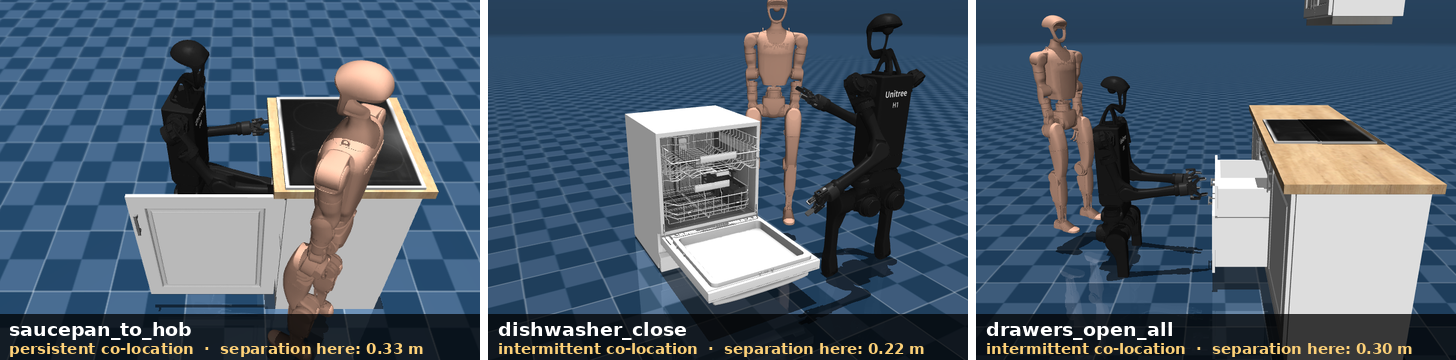
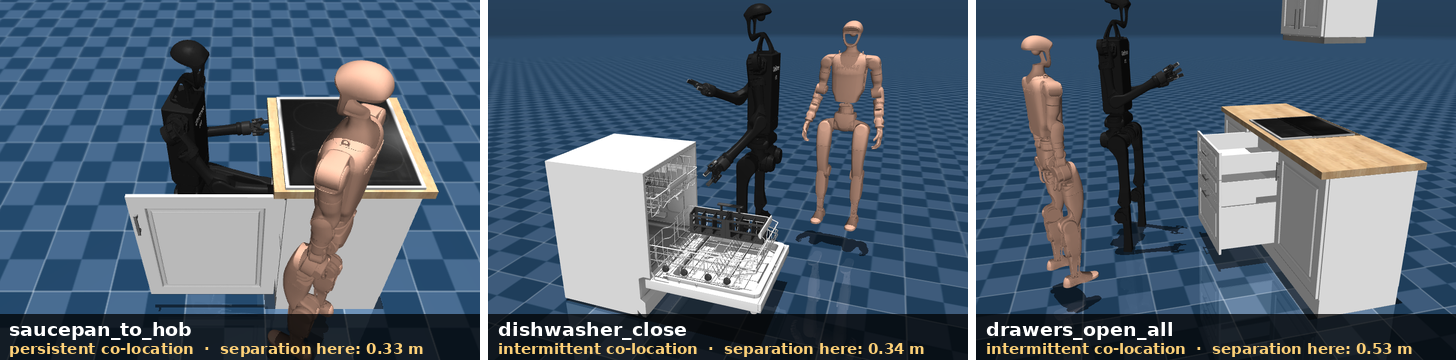
fix floor-sunk H1 in regenerated task_suite panels
The replayed demos crouch the floating-base pelvis to z 0.45-0.62 and
the H1 legs don't articulate, so the first pass rendered the robot
0.4-0.55 m into the floor. Dishwasher: switch to demo 35 (manipulation
at pelvis z~0.82, feet occluded by the open door; sep 0.34 m).
Drawers: new --pad-stand-rise replay mode stands the robot back up
post-success via delta-z actions (z 0.96, all three drawers still open;
sep 0.53 m). Provenance docs + JSON updated.

Changed region(s): [[0.3091, 0.0, 1.0, 1.0], [0.8654, 0.0, 0.989, 0.1222], [0.5872, 0.9472, 0.6181, 0.9778]]

diff --git a/scripts/remake_task_suite_panels.py b/scripts/remake_task_suite_panels.py
@@ -219,7 +219,15 @@ def _restore_state(env, st: dict) -> None:
 
 def replay_episode(env, holder, demo: dict, scen_seed: int, out_dir: Path,
                    capture_every: int, pad_seconds: float,
-                   width: int, height: int, task_key: str) -> dict:
+                   width: int, height: int, task_key: str,
+                   pad_stand_rise: float = 0.0) -> dict:
+    """Replay demo actions; optionally stand the robot back up during pad.
+
+    The floating-base entries (action[0:4]) are per-step deltas even in
+    absolute action mode, so a +z delta during the pad phase rises the
+    pelvis through normal env.step physics (no state surgery). Arm and
+    gripper entries hold the demo's final absolute targets.
+    """
     import imageio.v2 as imageio
 
     holder.value = scen_seed
@@ -240,9 +248,18 @@ def replay_episode(env, holder, demo: dict, scen_seed: int, out_dir: Path,
     n_pad = int(pad_seconds * CONTROL_HZ)
     total = len(actions) + n_pad
 
+    rise_per_step = 0.0005  # 0.25 m/s at 500 Hz
+    risen = 0.0
     for i in range(total):
         padded = i >= len(actions)
-        act = actions[min(i, len(actions) - 1)]
+        if padded and pad_stand_rise > 0:
+            act = actions[-1].copy()
+            act[0] = act[1] = act[3] = 0.0
+            dz = min(rise_per_step, pad_stand_rise - risen)
+            act[2] = max(dz, 0.0)
+            risen += act[2]
+        else:
+            act = actions[min(i, len(actions) - 1)]
         _, _, terminated, truncated, info = env.step(act)
         safety = info.get("safety", {}) or {}
         sep = float(safety.get("min_separation", np.nan))
@@ -430,6 +447,9 @@ def main() -> int:
                    help="Capture state+frame every Nth 500 Hz step (100 = 5 fps).")
     p.add_argument("--pad-seconds", type=float, default=5.0,
                    help="Hold the final demo action this long after replay.")
+    p.add_argument("--pad-stand-rise", type=float, default=0.0,
+                   help="During pad, raise the pelvis by this many metres "
+                        "(delta-z actions) so the robot stands back up.")
     p.add_argument("--width", type=int, default=480)
     p.add_argument("--height", type=int, default=360)
     p.add_argument("--out-root", type=Path,
@@ -501,7 +521,8 @@ def main() -> int:
         demos = load_demos(args.task, demo_indices)
         for demo in demos:
             for ss in scen_seeds:
-                ep_dir = task_dir / f"ep_d{demo['index']}_s{ss}"
+                suffix = "_stand" if args.pad_stand_rise > 0 else ""
+                ep_dir = task_dir / f"ep_d{demo['index']}_s{ss}{suffix}"
                 if (ep_dir / "meta.json").exists():
                     log.info("skip existing %s", ep_dir.name)
                     continue
@@ -509,7 +530,8 @@ def main() -> int:
                          demo["index"], demo["seed"], len(demo["actions"]), ss)
                 meta = replay_episode(env, holder, demo, ss, ep_dir,
                                       args.capture_every, args.pad_seconds,
-                                      args.width, args.height, args.task)
+                                      args.width, args.height, args.task,
+                                      pad_stand_rise=args.pad_stand_rise)
                 log.info("  -> success_step=%s min_sep=%.2f near=%.0f%% prox=%.0f%%",
                          meta["success_step"], meta["min_sep"],
                          100 * meta["near_frac"], 100 * meta["prox_frac"])

diff --git a/FYP_v16/FIGURE_DATA_NOTES.md b/FYP_v16/FIGURE_DATA_NOTES.md
@@ -177,18 +177,31 @@ baseline policy" was accordingly weakened to "live task executions"
   capture + camera rerender) then `scripts/compose_task_suite.py`
   (panel swap + bar redraw). Candidates/states under
   `results/figs/task_suite_remake/`.
-- dishwasher_close: demo index 2 (seed 2101953890), coworker scenario
-  seed 0, step 1600/3459 (success at 2445), separation 0.22 m; episode
-  near/prox fractions 0.92/0.91 (cf. v16 manifest eps 0/2 at 0.93/0.89
-  near). Camera az 332, el -20, dist 2.3, lookat (0.55, -0.05, 0.55).
-- drawers_open_all: demo index 2 (seed 98236002), coworker scenario
-  seed 1, step 4100/10045 (success at 9041), separation 0.30 m, two
-  drawers open (0.31 m extension); episode near/prox fractions
-  0.31/0.08 (cf. v16 manifest eps at 0.27-0.56 near). Camera az 90,
-  el -19, dist 2.6, lookat (0.35, 0.05, 0.55).
+- **Floor-sink constraint (first pass was wrong).** The first picks
+  (commit 8c7b7a7) used demos that crouch the floating-base pelvis to
+  z 0.45-0.62; with `floating_base=True` the H1's legs don't articulate
+  to the floor, so the robot rendered sunk ~0.4-0.55 m into it (sink
+  ~= 1.0 - pelvis_z). Final picks constrain pelvis z: the dishwasher
+  still uses the one cached demo whose manipulation runs at z~0.82
+  (sink ~0.18, feet occluded by the open door); no drawers demo opens
+  any drawer above z 0.46, so the drawers still is taken post-success
+  with a `--pad-stand-rise 0.5` pad phase that commands the pelvis
+  back up via ordinary delta-z actions (real env.step physics, no
+  state surgery; all three drawers verified still fully open, ext
+  0.38 each).
+- dishwasher_close: demo index 35 (seed 3882499936), coworker scenario
+  seed 2, step 900/4249 (success at 3234), pelvis z 0.82, separation
+  0.34 m; episode near/prox fractions 0.86/0.70. Camera az 290,
+  el -20, dist 2.7, lookat (0.5, -0.45, 0.55).
+- drawers_open_all: demo index 26 (seed 3720269239), coworker scenario
+  seed 1, padded stand-up frame k110 (post-success; demo 9762 steps,
+  success at 8754), pelvis z 0.96, all three drawers open (0.38 m
+  each), separation 0.53 m (v16 panel annotated 0.51 m); episode
+  near/prox fractions 0.27/0.02. Camera az 75, el -20, dist 2.9,
+  lookat (0.3, -0.05, 0.55).
 - The replay episodes reproduce the documented bimodal dishwasher
-  pattern (scenario seed 0: human-on-robot, near 0.92; seed 1: human
-  stays clear, near 0) and the drawers mid-band (near 0.2-0.3).
+  pattern (close-loiter scenarios near 0.86-0.92; away scenarios
+  near 0) and the drawers mid-band.
 - v16 `task_suite_manifest.json` is retained as the record of the
   original snapshot-based 6-episode rollouts (still the provenance of
   the surviving saucepan panel); the v17 panel provenance is this note

diff --git a/FYP_v16/CHANGELOG_v16.md b/FYP_v16/CHANGELOG_v16.md
@@ -220,3 +220,14 @@ unconstrained baseline policy" -> "live task executions". Annotated
 separations remain env ground truth (dishwasher 0.22 m, drawers 0.30 m).
 Full provenance: FIGURE_DATA_NOTES.md + task_suite_v17_update.json.
 PDF page count unchanged (same figure dimensions).
+
+### Same-day revision: floor-sink fix (2026-06-12)
+
+The first regenerated panels had the H1 sunk 0.4-0.55 m into the floor:
+the source demos crouch the floating-base pelvis to z 0.45-0.62 and the
+H1's legs don't articulate to the floor (sink ~= 1.0 - pelvis_z). Final
+panels: dishwasher uses the one demo whose manipulation runs at pelvis
+z~0.82 (sep 0.34 m, feet occluded by the open door); drawers is a
+post-success stand-up frame (pelvis commanded back up to z 0.96 with
+delta-z actions in the pad phase — real physics, drawers verified still
+fully open, ext 0.38 each; sep 0.53 m vs the v16 panel's 0.51 m).
